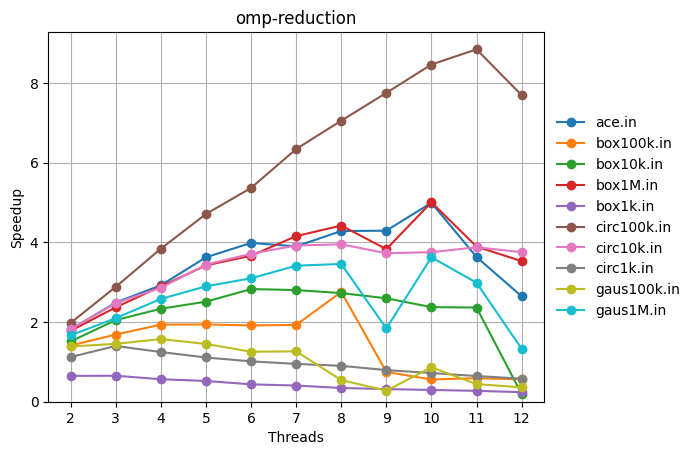
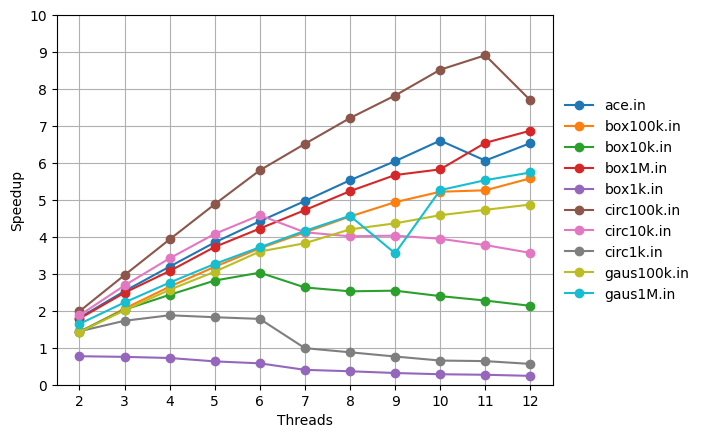
More docs

diff --git a/docs/omp.tex b/docs/omp.tex
@@ -1,17 +1,55 @@
 \section{Implementazioni OpenMP}
+\subsection{Introduzione}
 Per parallelizzare l'algoritmo usando \emph{OpenMP} sono state realizzate alcune versioni in modo da valutare l'efficacia di diversi approcci o strumenti.
 In particolare è risultato evidente che impostando la variabile d'ambiente \texttt{OMP\_PROC\_BIND=true} si ottengono risultati migliori sia dal punto di vista dell'efficienza, ma soprattutto da quello della \textbf{ripetibilità}: senza l'utilizzo della variabile esecuzioni successive dello stesso programma terminavano spesso in tempi molto diversi.
 
+\subsection{Riduzione}
 Analizzando il funzionamento dell'algoritmo si può dire che ad ogni iterazione viene aggiunto all'\emph{hull} il punto più esterno rispetto all'ultimo inserito $P_l$;
 $P_a$ è più esterno di $P_b$ se la spezzata $P_lP_aP_b$ è orientata in senso orario.
 
-È possibile utilizzare il \textbf{pattern reduction} ad ogni iterazione per scegliere il punto più esterno, utilizzando la direttiva \texttt{reduce} di OMP.  
-Per poter eseguire la \emph{reduction} su punti e per gestire il contesto necessario ai confronti (ovvero il punto precedente nel convex hull),
-è stata dichiarato un operatore personalizzato con la direttiva \texttt{\#pragma omp declare reduction}.
+È possibile quindi utilizzare il \textbf{pattern reduction} ad ogni iterazione per scegliere il punto più esterno, specificando la direttiva \texttt{reduce} di \emph{OpenMP}.\\
+Per poter eseguire la \emph{reduction} su punti e per gestire il contesto necessario (per confrontare due punti è bisogna conoscere il punto precedente),
+è stata dichiarato un operatore personalizzato con la direttiva \texttt{omp declare reduction}: esso lavora su una struttura dati apposita che contiene
+un puntatore al punto da confrontare e uno al punto precedente\footnote{Il codice di questa prima versione è contenuto nel file \texttt{src/omp-reduction.c}}.
 
-Di seguito è riportato lo speedup ottenuto parallelizzando la ricerca del prossimo punto $P_next$ usando la direttiva \texttt{reduce} con l'operatore sopra citato:
+Già con questa soluzione è possibile ottenere un buon risultato, ma ci sono alcuni aspetti che si possono provare a migliorare.
 
-\begin{figure}[h]
-    \includegraphics[width=\textwidth]{omp-reduction}
-    \centering
-\end{figure}
+\subsection{Pool di thread e \emph{First Touch}}
+Si cerca quindi di evitare che il pool di thread venga ricreato ad ogni iterazione dell'algoritmo, quando si raggiunge la sezione \texttt{parallel for};
+è possibile farlo includendo tutto il codice dell'algoritmo all'interno di un blocco \texttt{omp parallel}, al cui interno è presente il ciclo \texttt{omp for} per la ricerca del prossimo punto;
+chiaramente in questo caso è necessario gestire adeguatamente le parti seriali (ad esempio l'aggiunta del punto al \emph{convex hull}).
+
+Inoltre si è cercato di sfruttare il principio di \emph{First Touch}\footnote{TODO} per velocizzare l'accesso alla memoria:
+nelle architetture \emph{NUMA} ogni \emph{NUMANode} ha accesso veloce alla propria memoria locale, mentre raggiungere altre zone di memoria richiede un tempo più lungo;
+dato che è sempre necessario cercare su tutti i punti ogni thread può copiare la partizione di valori su cui lavorerà in un nuovo vettore,
+che sarà posizionato nella memoria locale del \emph{NUMANode} su cui viene eseguito
+(grazie alla variabile \texttt{OMP\_PROC\_BIND} i thread non dovrebbero venire spostati su core diversi).\\
+Molti dei moderni sistemi operativi applicano inoltre la politica del \emph{First Touch}: le pagine di memoria allocata dal programma vengono istanziate solamente al momento della prima
+scrittura, e vengono quindi posizionate nella memoria locale del \emph{NUMANode} thread che ha effettuato la scrittura.
+
+Si utilizza quindi un ciclo \texttt{omp for schedule(static)} iniziale per copiare i punti in una nuova area di memoria, e un secondo ciclo con la stessa direttiva per eseguire la riduzione: in questo modo, dato che i due cicli vengono \emph{schedulati} nello stesso modo in fase di compilazione, i punti che vengono copiati da un thread sono gli stessi che verranno poi utilizzati dallo stesso thread.
+
+Purtroppo questi tentativi in pratica non hanno portato alcun vantaggio, e anzi risultano in un leggero rallentamento, come mostrato nel confronto in figura \ref{fig:comparison}.
+
+\subsection{Riduzione manuale}
+Nella terza e ultima versione non viene più utilizzata la direttiva \texttt{omp for reduce}, ma la riduzione viene fatta manualmente accumulando i valori
+ridotti da ogni thread all'interno di un vettore: i valori così ottenuti vengono poi ridotti in modo seriale da un singolo thread.\\
+Ogni thread inoltre alloca un nuovo vettore in cui copia i punti che utilizzerà per la riduzione; questo sempre per cercare di utilizzare locale dei \emph{NUMANode}.
+La copia viene effettuata solamente se il numero di punti utilizzato da ogni thread è superiore a $10\,000$ (valore scelto empiricamente):
+se fosse inferiore il vantaggio ottenuto dalla località della memoria sarebbe annullato dal lavoro necessario alla copia.
+
+Questa volta si ottiene un miglioramento delle prestazioni: di seguito sono mostrati quindi i grafici di \emph{speedup} ed efficienza relativi a questa soluzione
+
+\begin{plot}
+    \includeplot{speedup-omp-convex-hull}
+    \caption{Speedup ottenuto realizzando manualmente la riduzione}
+\end{plot}
+
+È possibile notare come negli input più piccoli si ottenga uno speedup quasi inversamente proporzionale, probabilmente dovuto all'introduzione di un overhead troppo elevato rispetto alla dimensione dei dati da trattare.
+
+
+\begin{plot}
+    \includeplot{omp-comparison}
+    \caption{TODO}
+    \label{fig:comparison}
+\end{plot}

diff --git a/docs/introduzione.tex b/docs/introduzione.tex
@@ -1,13 +1,19 @@
 \section{Introduzione}
-In questa relazione si analizzano alcune possibilità di implementazione parallela dell'algoritmo \textbf{Gift Wrapping}\footnote{\url{https://en.wikipedia.org/wiki/Gift_wrapping_algorithm}}.
+In questa relazione si analizzano alcune possibilità di implementazione parallela dell'algoritmo \textbf{Gift Wrapping}\footnote{\url{https://en.wikipedia.org/wiki/Gift\_wrapping\_algorithm}}.
 È stato scelto di realizzarne una versione usando \textbf{OpenMP} e una usando \textbf{MPI}.
 
 Per poter facilmente confrontare il risultato delle diverse soluzioni, ogni implementazione trova il \emph{convex hull} con il minor numero di punti;
 la versione seriale è stata quindi leggermente modificata per rimuovere dall'\emph{hull} punti collineari consecutivi\footnote{Questa piccola modifica ha comportanto un inaspettato aumento della velocità di esecuzione nella versione parallela, dovuto probabilmente ad del compilatore o al verificarsi di qualche fortunata condizione}.
  
+Verranno utilizzati dei grafici per mostrare le performance delle diverse soluzioni:
+in ognuno saranno riportati i dati (\emph{speedup} o \emph{tempi di esecuzione} a seconda dei casi) per \textbf{tutti} gli input forniti,
+in modo da poter verificare il comportamento sia sulle diverse tipologie di input (cerchi, distribuzioni gaussiane...) sia sulle diverse dimensioni (numero di punti).
+
+Tutti i tempi vengono misurati sul server \texttt{isi-raptor03} fornito da \emph{UNIBO}, realizzando \textbf{10} diverse misurazioni, scartando le \textbf{2} più veloci e le \textbf{2} più lente e facendo la media delle rimanenti;
+questo per cercare di ottenere dati il più possibile accurati e di escludere eventuali oscillazioni nel carico del server.
+
 Per calcolare lo \emph{speedup} è stata utilizzata la formula
 \begin{equation}
-    \frac{1}{|I|} \sum_{i \in I}{} \frac{T_{parallel}(1)}{T_{parallel}(P)}
+    \frac{T_{parallel}(1)}{T_{parallel}(P)}
 \end{equation}
-in cui $I$ è l'insieme degli input, $T_{parallel}(P)$ è il tempo di esecuzione con $P$ processori; i tempi sono stati ottenuti con 5 diverse misurazioni,
-rimuovendo la più lenta e la più veloce e facendo la media delle rimanenti.
+in cui $T_{parallel}(P)$ è il tempo di esecuzione con $P$ processori.

diff --git a/docs/report.tex b/docs/report.tex
@@ -7,6 +7,13 @@
 \usepackage{graphicx}
 \graphicspath{ {images/} }
 
+\newenvironment{plot}
+    {\begin{figure}[h]
+        \centering
+    }
+    {\end{figure}}
+\newcommand{\includeplot}{\includegraphics[width=0.9\textwidth]}
+
 \begin{document}
 
 \author{Giulio Carlassare}
